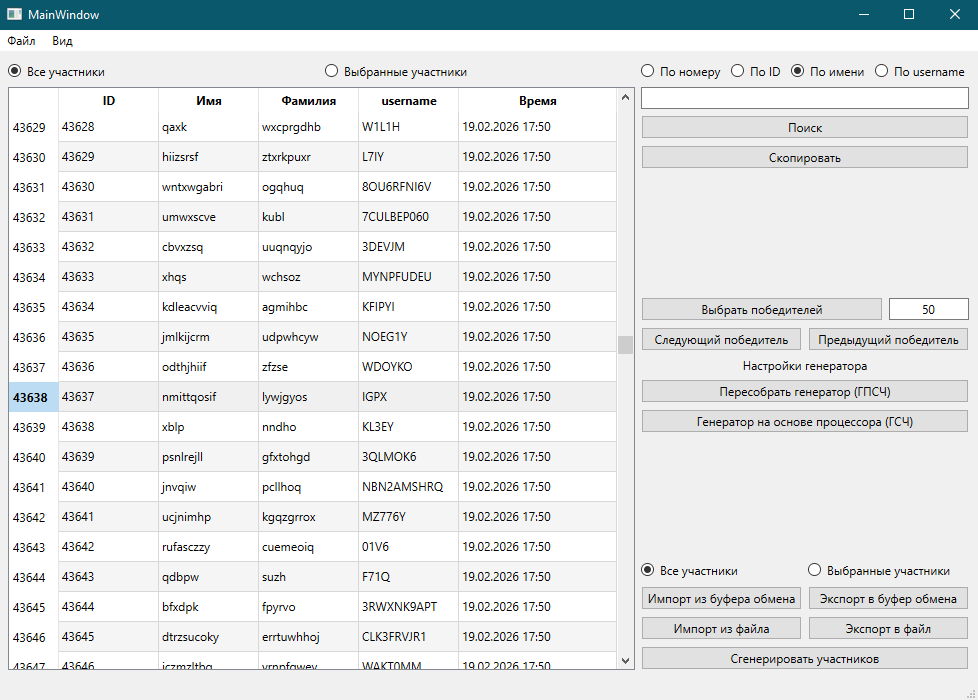
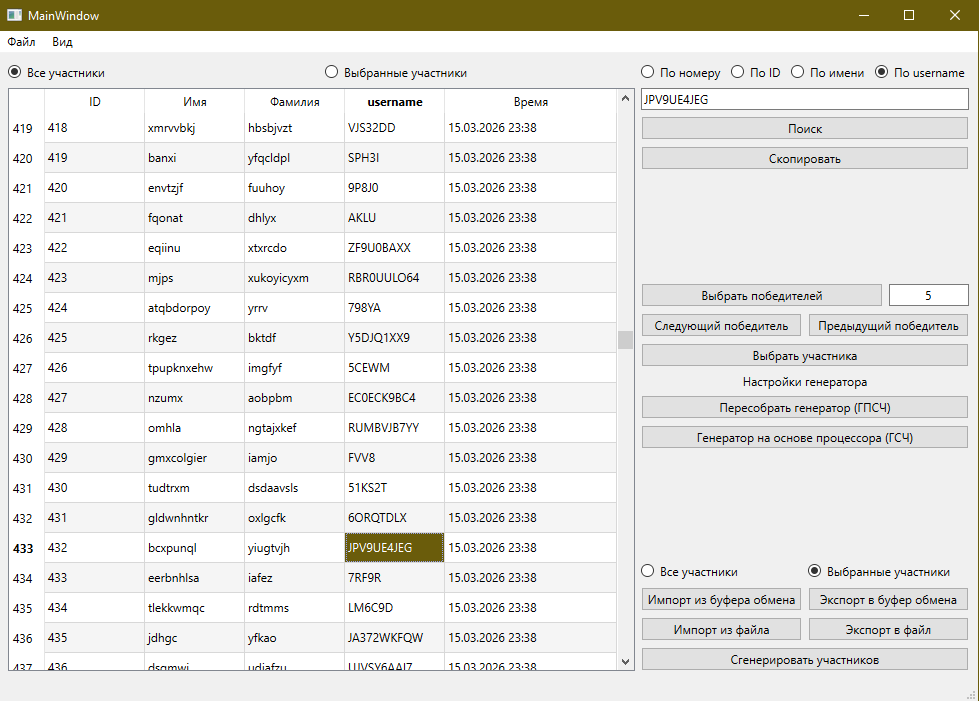
Fixed "Choose part" button, ui updated

diff --git a/src/mainwindow.cpp b/src/mainwindow.cpp
@@ -1,7 +1,9 @@
-#include "mainwindow.h"
-#include "ui_mainwindow.h"
 #include <QFileDialog>
 #include <QClipboard>
+#include <QTimer>
+
+#include "mainwindow.h"
+#include "ui_mainwindow.h"
 
 MainWindow::MainWindow(QWidget *parent)
     : QMainWindow(parent)
@@ -14,47 +16,49 @@ MainWindow::MainWindow(QWidget *parent)
     ui->lst_participants->hide();
 
     randomizer_ptr_ = model_.GetRandomizer();
+
+    connect(ui->rbtn_active_part, &QAbstractButton::clicked, this, &MainWindow::ApplyModel);
+    connect(ui->rbtn_all_part, &QAbstractButton::clicked, this, &MainWindow::ApplyModel);
+    connect(ui->le_number_winners, &QLineEdit::textEdited, this, &MainWindow::ApplyButtons);
 }
 
 MainWindow::~MainWindow() {
     delete ui;
 }
 
-void MainWindow::ApplyModel() {
+void MainWindow::ApplyButtons() {
     bool participants_filled = model_.NumberOfParticipants(false) > 0;
-    ui->btn_gen_winners->setEnabled(participants_filled);
+    ui->btn_gen_winners->setEnabled(participants_filled && ui->le_number_winners->hasAcceptableInput());
     ui->btn_search->setEnabled(participants_filled);
     ui->btn_to_clipboard->setEnabled(participants_filled);
     ui->btn_write_file->setEnabled(participants_filled);
-    ui->btn_add_part->setEnabled(participants_filled && (model_.GetIterator() != std::nullopt));
+    ui->btn_add_part->setEnabled(participants_filled && model_.GetIterator().has_value());
 
     bool active_part_filled = model_.NumberOfParticipants(true) > 0;
     ui->rbtn_active_part->setEnabled(active_part_filled);
     ui->rbtn_active_work->setEnabled(active_part_filled);
-    ui->btn_next_active->setEnabled(active_part_filled && !show_active_part_);
-    ui->btn_prev_active->setEnabled(active_part_filled && !show_active_part_);
+    ui->btn_next_active->setEnabled(active_part_filled && !ui->rbtn_active_part->isChecked());
+    ui->btn_prev_active->setEnabled(active_part_filled && !ui->rbtn_active_part->isChecked());
+}
 
-    if (table_view_) {
+void MainWindow::ApplyModel() {
+    applying_model_ = true;
+    if (ui->act_show_tbl->isChecked()) {
         ui->tbl_participants->clearContents();
-        ui->tbl_participants->setRowCount(model_.NumberOfParticipants(show_active_part_));
+        ui->tbl_participants->setRowCount(model_.NumberOfParticipants(ui->rbtn_active_part->isChecked()));
 
-        for (size_t i = 0; i < model_.NumberOfParticipants(show_active_part_); ++i) {
-            Participant part{model_.GetParticipant(i, show_active_part_)};
+        for (size_t i = 0; i < model_.NumberOfParticipants(ui->rbtn_active_part->isChecked()); ++i) {
+            Participant part{model_.GetParticipant(i, ui->rbtn_active_part->isChecked())};
             for (size_t j = 0; j < 5; ++j) {
                 ui->tbl_participants->setItem(i, j, new QTableWidgetItem(part.GetElement(j)));
             }
         }
-
-        if (model_.GetIterator().has_value()) {
-            ui->tbl_participants->selectRow(std::distance(model_.GetBeginIterator(), model_.GetIterator().value()));
-        }
     }
     else {
-        applying_model_ = true;
         ui->lst_participants->clear();
 
-        for (size_t i = 0; i < model_.NumberOfParticipants(show_active_part_); ++i) {
-            Participant part{model_.GetParticipant(i, show_active_part_)};
+        for (size_t i = 0; i < model_.NumberOfParticipants(ui->rbtn_active_part->isChecked()); ++i) {
+            Participant part{model_.GetParticipant(i, ui->rbtn_active_part->isChecked())};
             QString part_str(QString("%1 - ID: %2 Name: %3 Surname: %4 Username: %5 Time: %6").
                 arg(QString::number(i + 1),
                 part.GetElement(0),
@@ -64,12 +68,22 @@ void MainWindow::ApplyModel() {
                 part.GetElement(4)));
             ui->lst_participants->addItem(part_str);
         }
+    }
+    applying_model_ = false;
 
-        if (model_.GetIterator().has_value()) {
-            ui->lst_participants->setCurrentRow(std::distance(model_.GetBeginIterator(), model_.GetIterator().value()));
-        }
+    ApplyButtons();
+}
 
-        applying_model_ = false;
+void MainWindow::ApplyIterator() {
+    if (!model_.GetIterator().has_value()) {
+        return;
+    }
+
+    if (ui->act_show_tbl->isChecked()) {
+        ui->tbl_participants->selectRow(std::distance(model_.GetBeginIterator(), model_.GetIterator().value()));
+    }
+    else {
+        ui->lst_participants->setCurrentRow(std::distance(model_.GetBeginIterator(), model_.GetIterator().value()));
     }
 }
 
@@ -79,9 +93,10 @@ QString MainWindow::ItemsToString(QList<QTableWidgetItem*> items) {
     }
 
     QString result;
-    for (QTableWidgetItem* item : items) {
+    for (const QTableWidgetItem* item : std::as_const(items)) {
         result += model_.ValueNameByIndex(item->column()) + item->text() + " ";
     }
+    result.chop(1);
     return result;
 }
 
@@ -89,7 +104,7 @@ QString MainWindow::ItemsToString(QList<QTableWidgetItem*> items) {
 
 void MainWindow::on_act_show_lst_triggered()
 {
-    table_view_ = false;
+    ui->act_show_tbl->setChecked(false);
     ui->lst_participants->show();
     ui->tbl_participants->hide();
     ApplyModel();
@@ -98,7 +113,7 @@ void MainWindow::on_act_show_lst_triggered()
 
 void MainWindow::on_act_show_tbl_triggered()
 {
-    table_view_ = true;
+    ui->act_show_lst->setChecked(false);
     ui->lst_participants->hide();
     ui->tbl_participants->show();
     ApplyModel();
@@ -130,23 +145,6 @@ void MainWindow::on_act_exp_file_triggered()
 
 #define ActionsSlots_end }
 
-#define ParticipantShowSlots_start {
-
-void MainWindow::on_rbtn_active_part_clicked()
-{
-    show_active_part_ = true;
-    ApplyModel();
-}
-
-
-void MainWindow::on_rbtn_all_part_clicked()
-{
-    show_active_part_ = false;
-    ApplyModel();
-}
-
-#define ParticipantShowSlots_end }
-
 #define SearchSlots_start {
 
 void MainWindow::on_rbtn_number_clicked()
@@ -173,7 +171,7 @@ void MainWindow::on_rbtn_nick_clicked()
 }
 
 
-void MainWindow::on_btn_search_clicked()
+void MainWindow::on_btn_search_clicked() //Need rework
 {
     model_.FindParticipants(ui->le_search->text(), search_type_);
     ApplyModel();
@@ -185,22 +183,25 @@ void MainWindow::on_btn_copy_clicked()
     QClipboard* clip = QApplication::clipboard();
     if (!clip) {
         qWarning() << "Error in on_btn_copy_clicked: can't access to clipboard";
+        TextChanger(ui->btn_copy, "Ошибка", 1000);
         return;
     }
 
-    if (table_view_) {
+    if (ui->act_show_tbl->isChecked()) {
         clip->setText(ItemsToString(ui->tbl_participants->selectedItems()));
     }
     else if (ui->lst_participants->currentRow() >= 0) {
         clip->setText(ui->lst_participants->currentItem()->text());
     }
+
+    TextChanger(ui->btn_copy, "Скопированно", 1000);
 }
 
 #define SearchSlots_end }
 
 #define WinnersSlots_start {
 
-void MainWindow::on_btn_gen_winners_clicked()
+void MainWindow::on_btn_gen_winners_clicked() // Need add ui info
 {
     size_t number_of_winners = ui->le_number_winners->text().toULongLong();
     if (number_of_winners == 0 || number_of_winners > model_.NumberOfParticipants(false)) {
@@ -215,14 +216,14 @@ void MainWindow::on_btn_gen_winners_clicked()
 void MainWindow::on_btn_next_active_clicked()
 {
     model_.SetNextIterator();
-    ApplyModel();
+    ApplyIterator();
 }
 
 
 void MainWindow::on_btn_prev_active_clicked()
 {
     model_.SetPrevIterator();
-    ApplyModel();
+    ApplyIterator();
 }
 
 
@@ -261,7 +262,7 @@ void MainWindow::on_btn_read_file_clicked()
 }
 
 
-void MainWindow::on_btn_write_file_clicked()
+void MainWindow::on_btn_write_file_clicked() //Need add ui info
 {
     QString directory = QFileDialog::getExistingDirectory();
     if (directory.isEmpty()) {
@@ -300,7 +301,7 @@ void MainWindow::on_btn_from_clipboard_clicked()
 }
 
 
-void MainWindow::on_btn_to_clipboard_clicked()
+void MainWindow::on_btn_to_clipboard_clicked() //Need add ui info
 {
     QClipboard* clip = QApplication::clipboard();
     if (!clip) {
@@ -325,19 +326,23 @@ void MainWindow::on_btn_gen_participants_clicked()
 
 #define ParticipantControlSlots_end }
 
-// void MainWindow::on_lst_participants_currentRowChanged(int currentRow)
-// {
-//     if (currentRow < 0 || applying_model_) {
-//         return;
-//     }
+void MainWindow::on_lst_participants_currentRowChanged(int currentRow)
+{
+    if (applying_model_ || ui->rbtn_active_part->isChecked()) {
+        return;
+    }
 
-//     model_.SetIterator(currentRow);
-//     ApplyModel();
-// }
+    model_.SetIterator(currentRow);
+    ApplyButtons();
+}
 
 
-// void MainWindow::on_tbl_participants_itemSelectionChanged()
-// {
+void MainWindow::on_tbl_participants_itemSelectionChanged()
+{
+    if (applying_model_ || ui->rbtn_active_part->isChecked()) {
+        return;
+    }
 
-// }
-
+    model_.SetIterator(ui->tbl_participants->currentRow());
+    ApplyButtons();
+}

diff --git a/src/mainwindow.h b/src/mainwindow.h
@@ -1,8 +1,10 @@
 #pragma once
 
 #include <QMainWindow>
+#include <QTimer>
 
 #include "model.h"
+#include "qpushbutton.h"
 #include "qtablewidget.h"
 #include "enums.h"
 
@@ -28,9 +30,6 @@ private slots:
     void on_act_exp_clipboard_triggered();
     void on_act_exp_file_triggered();
 
-    void on_rbtn_active_part_clicked();
-    void on_rbtn_all_part_clicked();
-
     void on_rbtn_number_clicked();
     void on_rbtn_id_clicked();
     void on_rbtn_name_clicked();
@@ -51,18 +50,26 @@ private slots:
     void on_btn_to_clipboard_clicked();
     void on_btn_gen_participants_clicked();
 
-    // void on_lst_participants_currentRowChanged(int currentRow);
-    // void on_tbl_participants_itemSelectionChanged();
+    void on_lst_participants_currentRowChanged(int currentRow);
+    void on_tbl_participants_itemSelectionChanged();
 
 private:
+    void ApplyButtons();
     void ApplyModel();
+    void ApplyIterator();
     QString ItemsToString(QList<QTableWidgetItem*>);
+
+    void TextChanger(QPushButton* button, const QString& temp_text, int ms) {
+        QString std_text{ button->text() };
+        button->setText(temp_text);
+        QTimer::singleShot(ms, this, [=]() {
+            button->setText(std_text);
+        });
+    };
 
     Ui::MainWindow *ui;
     std::unique_ptr<CustomRandom> randomizer_ptr_;
     Model model_;
     SearchType search_type_{ SearchType::NUMBER };
-    bool table_view_{ true };
-    bool show_active_part_{ false };
     bool applying_model_{ false };
 };
